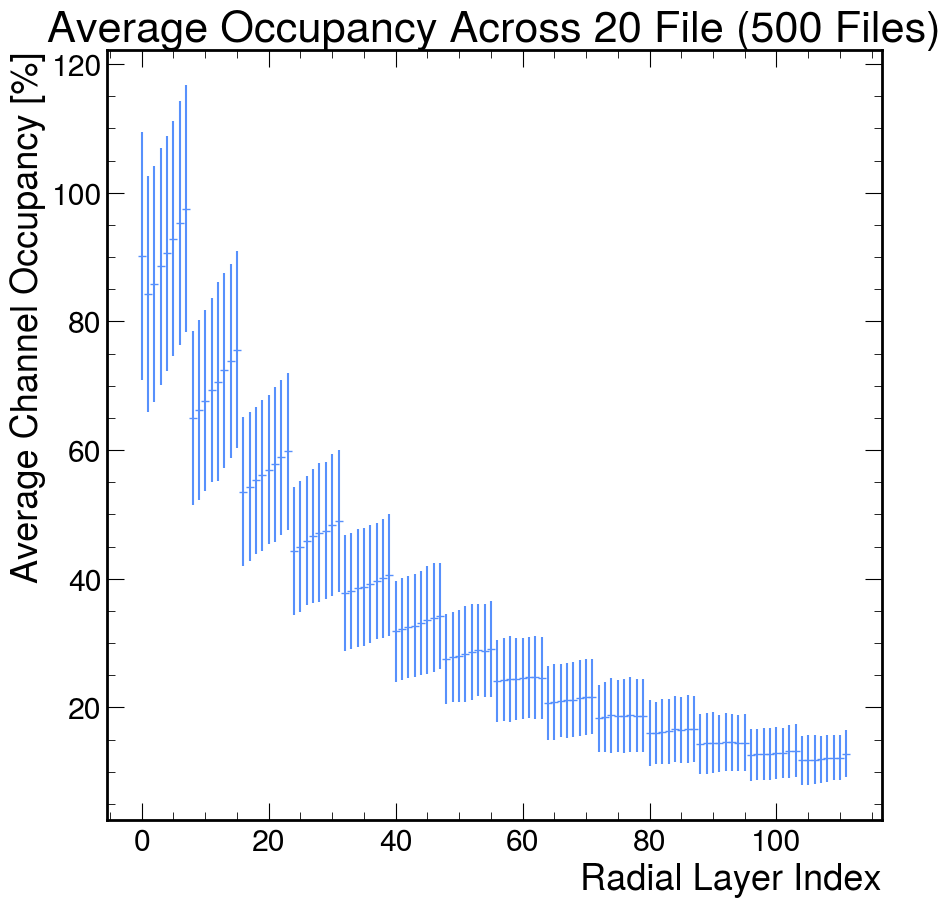
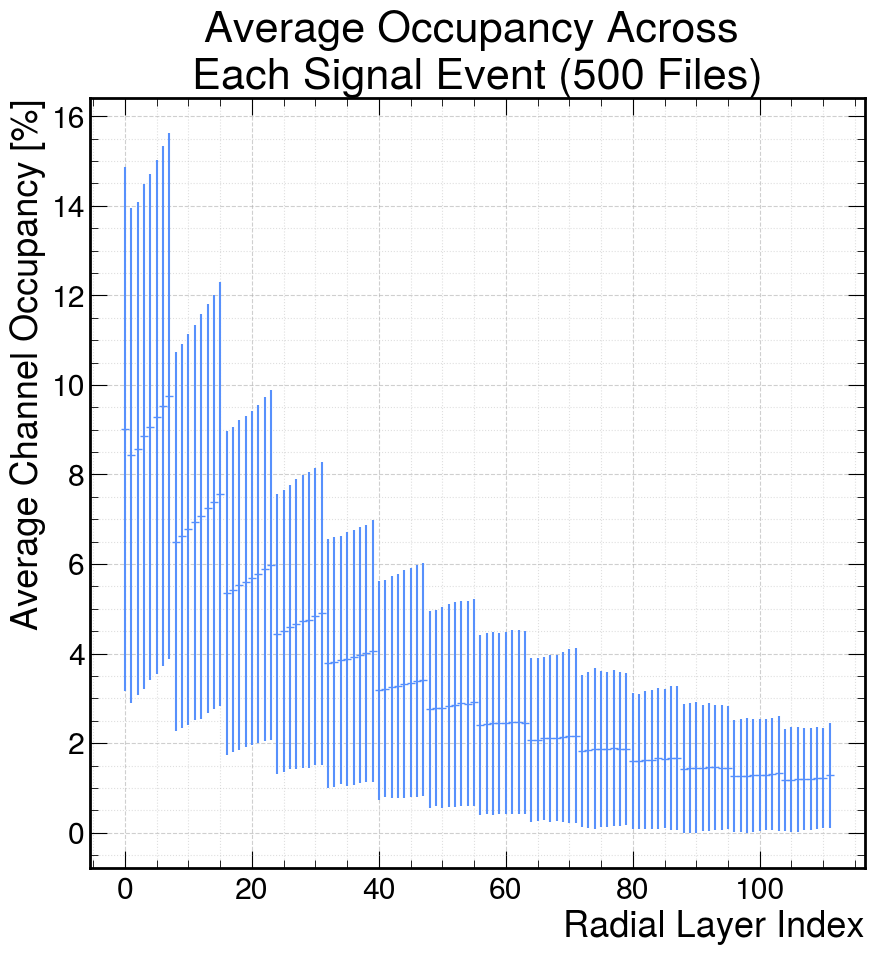
final version which produced plots for final presentation

Changed region(s): [[0.0, 0.0, 1.0, 0.9879]]

diff --git a/detector_beam_backgrounds/tracking/trBkgPlt.py b/detector_beam_backgrounds/tracking/trBkgPlt.py
@@ -17,7 +17,7 @@ backgroundDataPath = "fccproject-tracking/detector_beam_backgrounds/tracking/dat
 combinedDataPath = "fccproject-tracking/detector_beam_backgrounds/tracking/data/combined/"
 imageOutputPath = "fccproject-tracking/detector_beam_backgrounds/tracking/images/"
 signalDataPath = "fccproject-tracking/detector_beam_backgrounds/tracking/data/occupancy_tinker/signal_background_particles_"+str(numFiles)+".npy"
-type="bkg"
+type="signal"
 
 #set numpy display to default
 np.set_printoptions(threshold=10)
@@ -190,14 +190,14 @@ def momPerMC(dic, args = "", byPDG = False):
         #seperate hits based on if they occur once or more than once with the same mcParticle
         for i in range(0, len(count_hits)):
             if count_hits[i] == 1:
-                if byPDG:
+                if byPDG and args == "onlyOH":
                     if pdg[i] in hist:
                         hist[pdg[i]].append(p[i])
                     else:
                         hist[pdg[i]] = [p[i]]
                 hist["onlyOH"].append(p[i])
             else:
-                if byPDG:
+                if byPDG and args == "only+H":
                     if pdg[i] in hist:
                         hist[pdg[i]].append(p[i])
                     else:
@@ -442,12 +442,9 @@ def occupancy(dic, args = ""):
         "" -- all values \n
         "n_cells" -- number of cells fired by an mcParticle\n
         "percentage_fired" -- percentage of cells fired by an mcParticle\n
-        "avg_occupancy_file" -- average occupancy per file\n
-        "avg_occupancy_event" -- average occupancy per event\n
-        "avg_occupancy_event_file" -- average occupancy per event per file, 
-            same length as total layers\n
-        "avg_occupancy_layer_file" -- average occupancy per file, but all events together,
-            same length as total layers\n
+        "occupancy_per_batch_sum_events" -- average occupancy (%) per batch, summing occupancies an event\n
+        "occupancy_per_batch_sum_events_non_normalized" -- average occupancy (not %) per batch, summing occupancies an event\n
+        "occupancy_per_batch_sum_batches" -- average occupancy (%) per batch, summing occupancies a batch\n
         "cells_per_layer" -- cells per layer\n
     """
     # Create the histogram
@@ -509,7 +506,7 @@ def occupancy(dic, args = ""):
 
 # hist = momPerMC(dic, "only+H")
 # hist_plot(hist["only+H"], imageOutputPath + "momentumMC" + str(numFiles) + "only+Hit.png", "Momentum of MC particles with more than one hit (" + str(numFiles) + " Files)", xLabel="Momentum (GeV)", yLabel="Count MC particles",  xMin=0, xMax=0.3)
-# hist_plot(hist["only+H"], imageOutputPath + "momentumMC" + str(numFiles) + "only+HitLoggedx.png", "Momentum of MC particles with more than one hit (" + str(numFiles) + " Files)", xLabel="Momentum (GeV)", yLabel="Count MC particles", logX=True)
+# hist_plot(hist["only+H"], imageOutputPath + "momentumMC" + str(numFiles) + "only+HitLoggedx.png", "Momentum of BKG MC particles \nwith more than one hit (" + str(numFiles) + " Files)", xLabel="Momentum (GeV)", yLabel="Count MC particles", logX=True)
 # hist_plot(hist["only+H"], imageOutputPath + "momentumMC" + str(numFiles) + "only+HitLogged.png", "Momentum of MC particles with more than one hit (" + str(numFiles) + " Files)", xLabel="Momentum (GeV)", yLabel="Count MC particles", logY=True, logX=True)
 
 # hist = momPerMC(dic, "onlyParPhoton")
@@ -526,8 +523,8 @@ def occupancy(dic, args = ""):
 
 
 ####multi:
-# hist = PDGPerMC(dic, "")
-# bar_plot(hist.keys(), hist.values(), imageOutputPath + "pdgMC" + str(numFiles) + ".png", "PDG of MC particles (" + str(numFiles) + " Files)", xLabel="PDG", yLabel="Count MC particles", width=1.3, rotation=90, includeLegend=False)
+hist = PDGPerMC(dic, "")
+bar_plot(hist.keys(), hist.values(), imageOutputPath + "pdgMC" + str(numFiles) + ".png", "PDG of BKG MC particles \n(" + str(numFiles) + " Files)", xLabel="PDG", yLabel="Count MC particles", width=1.3, rotation=90, includeLegend=False)
 
 # hist = PDGPerMC(dic, "electron")
 # bar_plot(["electron"], hist["all"], imageOutputPath + "pdgElectronPhotonMC" + str(numFiles) + ".png", "PDG of MC particles (" + str(numFiles) + " Files)", xLabel="PDG", yLabel="Count MC particles", rotation=80, save=False, label="All Electrons")
@@ -559,8 +556,8 @@ def occupancy(dic, args = ""):
 
 # hist = momPerMC(dic, "only+H", byPDG=True)
 # print(f"hist: {hist['only+H']}")
-# multi_hist_plot(hist, imageOutputPath + "momentumMC" + str(numFiles) + "only+Hit.png", "Momentum of MC particles with more than one hit (" + str(numFiles) + " Files)", xLabel="Momentum (GeV)", yLabel="Count MC particles",  xMin=0, xMax=0.3, barType="step")
-# multi_hist_plot(hist, imageOutputPath + "momentumMC" + str(numFiles) + "only+HitSetpPDGLoggedx.png", "Momentum of MC particles with more than one hit (" + str(numFiles) + " Files)", xLabel="Momentum (GeV)", yLabel="Count MC particles", logX=True, barType="step", contrast=True)
+# multi_hist_plot(hist, imageOutputPath + "momentumMC" + str(numFiles) + "only+Hit.png", "Momentum of BKG MC particles \n with more than one hit (" + str(numFiles) + " Files)", xLabel="Momentum (GeV)", yLabel="Count MC particles",  xMin=0, xMax=0.3, barType="step")
+# multi_hist_plot(hist, imageOutputPath + "momentum" + str(type) + "MC" + str(numFiles) + "only+HitSetpPDGLoggedx.png", "Momentum of " + str(type) + " MC particles \nwith more than one hit (" + str(numFiles) + " Files)", xLabel="Momentum (GeV)", yLabel="Count MC particles", logX=True, barType="step")
 # multi_hist_plot(hist, imageOutputPath + "momentumMC" + str(numFiles) + "only+HitLogged.png", "Momentum of MC particles with more than one hit (" + str(numFiles) + " Files)", xLabel="Momentum (GeV)", yLabel="Count MC particles", logY=True, logX=True, barType="step")
 
 # hist = momPerMC(dic, "multiHitsExcludeOne")
@@ -571,12 +568,12 @@ def occupancy(dic, args = ""):
 
 
 ###overlay bkg and signal hits
-# histSignal = hitsPerMC(dic, "all")
-# histBkg = hitsPerMC(dicbkg, "all")
-# histBkg["All Particles BKG"] = histBkg.pop("all")
+# histSignal = hitsPerMC(dic, "electron")
+# histBkg = hitsPerMC(dicbkg, "electron")
+# histBkg["Electron Particles Signal"] = histSignal["Only Electrons"]
+# histBkg["Electron Particles BKG"] = histBkg.pop("Only Electrons")
 # histSignal["Electron Particles Signal"] = histSignal.pop("Only Electrons")
 # bar_step_multi_hist_plot(histSignal["all"], histBkg, imageOutputPath + "hitsSignalBkgMC" + str(numFiles) + ".png", "Hits of MC particles (" + str(numFiles) + " Files)", xLabel="Number of hits", yLabel="Number of MC particles", label="All Particles Signal", autoBin=False, binLow=0.1, binHigh=9000, binSteps=5, binType="lin", logY=True)
-# histBkg["All Particles Signal"] = histSignal["all"]
 # histBkg.pop("all")
 # multi_hist_plot(histBkg, imageOutputPath + "hitsElectronDensitySignalBkgZoomedMC" + str(numFiles) + ".png", "Hits of MC particles (" + str(numFiles) + " Files)", xLabel="Number of hits", yLabel="Density of MC particles", label="All Particles Signal", autoBin=False, binLow=0.1, binHigh=900, binSteps=5, binType="lin", barType="step",logY=True, density=True)
 # multi_hist_plot(histBkg, imageOutputPath + "hitsDensitySignalBkgZoomedMC" + str(numFiles) + ".png", "Hits of MC particles (" + str(numFiles) + " Files)", xLabel="Number of hits", yLabel="Density of MC particles", label="All Particles Signal", autoBin=False, binLow=0.1, binHigh=900, binSteps=5, binType="lin", barType="step", logY=True, density=True)
@@ -592,7 +589,6 @@ def occupancy(dic, args = ""):
 
 #####occupancy
 # hist = occupancy(dic, "avg_occupancy_layer_file")
-hist = occupancy(dic, "occupancy_per_batch_sum_batches")
 # hist = occupancy(dic, "n_cells")
 #total number of layers: 112
 #total number of cells 56448
@@ -605,22 +601,18 @@ hist = occupancy(dic, "occupancy_per_batch_sum_batches")
 # hist_plot(hist["avg_occupancy_event"], imageOutputPath + "occupancyPerEventMC" + str(numFiles) + ".png", "Average Occupancy Per Event (" + str(numFiles) + " Files)", xLabel="Radial Layer Index", yLabel="Average Channel Occupancy [%]", xMin=0, xMax=1.3, binHigh=112, binSteps=1, binType="lin")
 
 # print(hist)
-layers = [i for i in range(0, hist["total_number_of_layers"])]
-# xy_plot(layers, hist["avg_occupancy_event_file"], imageOutputPath + "occupancyPerEventPerLayerMC" + str(numFiles) + ".png", "Average Occupancy Per Event Per File (" + str(numFiles) + " Files)", xLabel="Radial Layer Index", yLabel="Average Channel Occupancy [%]", includeLegend=False, label="", scatter=False)
-# xy_plot(layers, hist["avg_occupancy_layer_file"], imageOutputPath + "occupancyPerLayerMC" + str(numFiles) + ".png", "Average Occupancy Per File (" + str(numFiles) + " Files)", xLabel="Radial Layer Index", yLabel="Average Channel Occupancy [%]", includeLegend=False, label="", scatter=True)
-
-# xy_plot(layers, hist["occupancy_one_file_non_normalized"], imageOutputPath + "occupancyOneFileMC" + str(numFiles) + ".png", "Occupancy One File (" + str(numFiles) + " Files)", xLabel="Radial Layer Index", yLabel="Channel Occupancy", includeLegend=False, label="", scatter=True)
-# xy_plot(layers, hist["occupancy_one_file"], imageOutputPath + "occupancyOneFilePercMC" + str(numFiles) + ".png", "Occupancy One File (" + str(numFiles) + " Files)", xLabel="Radial Layer Index", yLabel="Channel Occupancy [%]", includeLegend=False, label="", scatter=True)
+# hist = occupancy(dic, "occupancy_per_batch_sum_batches")
+# layers = [i for i in range(0, hist["total_number_of_layers"])]
 
 # print(hist["occupancy_per_batch_file_non_normalized"])
 # xy_plot(layers, hist["occupancy_per_batch_file_non_normalized"], imageOutputPath + "occupancy20FileBatchNNMC" + str(numFiles) + ".png", 
 #         "Average Occupancy Across 20 File Non Normalized (" + str(numFiles) + " Files)",
 #         xLabel="Radial Layer Index", yLabel="Average Channel Occupancy", 
 #         includeLegend=False, label="", scatter=True, errorBars=True, yerr = hist["occupancy_per_batch_file_non_normalized_error"])
-xy_plot(layers, hist["occupancy_per_batch_sum_batches"], imageOutputPath + "occupancy20FileBatchMC" + str(numFiles) + ".png", 
-        "Average Occupancy Across 20 File (" + str(numFiles) + " Files)",
-        xLabel="Radial Layer Index", yLabel="Average Channel Occupancy [%]", 
-        includeLegend=False, label="", scatter=True, errorBars=True, yerr = hist["occupancy_per_batch_sum_batches_error"])
+# xy_plot(layers, hist["occupancy_per_batch_sum_batches"], imageOutputPath + "occupancy20FileBatchMC" + str(numFiles) + ".png", 
+#         "Average Occupancy Across \nEach 20 BKG File Batch (" + str(numFiles) + " Files)",
+#         xLabel="Radial Layer Index", yLabel="Average Channel Occupancy [%]", 
+#         includeLegend=False, label="", scatter=True, errorBars=True, yerr = hist["occupancy_per_batch_sum_batches_error"])
 
 
 # x = [int(i) for i in list(hist["n_cells_per_layer"].keys())]
@@ -630,7 +622,7 @@ xy_plot(layers, hist["occupancy_per_batch_sum_batches"], imageOutputPath + "occu
 # hist = occupancy(dic, "cells_per_layer")
 # print(hist['total_number_of_layers'])
 # print(len(hist['n_cells_per_layer']))
-# plot_wire_chamber(hist["total_number_of_layers"], hist["n_cells_per_layer"], imageOutputPath + "wireChamber" + ".png", title="Wire Chamber Diagram (" + str(numFiles) + " Files)")
+# plot_wire_chamber(hist["total_number_of_layers"], hist["n_cells_per_layer"], imageOutputPath + "wireChamberFirstQuad" + ".png", title="", firstQuadrant=True)
 
 
 

diff --git a/detector_beam_backgrounds/tracking/utilities/functions.py b/detector_beam_backgrounds/tracking/utilities/functions.py
@@ -110,7 +110,7 @@ def hist_plot(h, outname, title, xMin=-1, xMax=-1, yMin=-1, yMax=-1,
               binLow = 0.00001, binHigh=2, binSteps=0.3, binType="exp", 
               figure = plt.figure(), axe = "", save=True, barType="bar",
               includeLegend = True, lineStyle = "", lineColor = "", alpha=1,
-              density=False):
+              density=False, legendOutside=False, includeGrid=True, ncols=1):
     #recreate plot_hist but using hist instead of hep
     if axe == "":
         axe = figure.subplots()
@@ -137,10 +137,14 @@ def hist_plot(h, outname, title, xMin=-1, xMax=-1, yMin=-1, yMax=-1,
         axe.set_title(title)
         axe.set_xlabel(xLabel)
         axe.set_ylabel(yLabel)
-        axe.legend(fontsize='x-small')
+        if includeGrid:
+            axe.grid(True, linestyle='--', alpha=0.6)  # Dashed grid with transparency
+            axe.grid(True, which='minor', linestyle=':', alpha=0.4)  # Minor grid (dotted)
         
         if includeLegend:
-            axe.legend(loc='upper left', bbox_to_anchor=(1.05, 1))
+            axe.legend(fontsize='x-small')
+            if legendOutside:
+                axe.legend(loc='upper left', ncols=ncols, bbox_to_anchor=(1.05, 1))
         if logY:
             axe.set_yscale("log")
         if logX:
@@ -151,7 +155,7 @@ def hist_plot(h, outname, title, xMin=-1, xMax=-1, yMin=-1, yMax=-1,
         if yMin != -1 and yMax != -1:
             axe.set_ylim([yMin, yMax])
         
-        figure.savefig(outname, bbox_inches="tight")
+        figure.savefig(outname, dpi=300, bbox_inches="tight")
         #fig.savefig(outname.replace(".png", ".pdf"), bbox_inches="tight")
     
 def multi_hist_plot(h, outname, title, xMin=-1, xMax=-1, yMin=-1, yMax=-1,
@@ -169,11 +173,19 @@ def multi_hist_plot(h, outname, title, xMin=-1, xMax=-1, yMin=-1, yMax=-1,
     for key in keys:
         if len(h[key]) == 0:
             h.pop(key)
+            
+    ncol=1
+    legendOutside=False
+    if len(h.keys()) > 10:
+        ncol=3
+    elif len(h.keys()) > 5:
+        ncol=2
+    if len(h.keys()) > 3:
+        legendOutside=True
     
     i = 0
     for key in h.keys():
         #if hStakced is a string
-        # print(key)
         # print(f"last key: {type(list(h.keys())[-1])}")
         # if type(key) == str:
         if key == list(h.keys())[-1]:
@@ -183,7 +195,7 @@ def multi_hist_plot(h, outname, title, xMin=-1, xMax=-1, yMin=-1, yMax=-1,
                         binLow=binLow, binHigh=binHigh,binSteps=binSteps,
                         binType=binType, barType=barType,
                         save=True, label=key, 
-                        figure=figure, axe=axe, density=density)
+                        figure=figure, axe=axe, density=density, ncols=ncol, legendOutside=legendOutside)
         else:
             #alternate linestyles:
             lineStyle = ""
@@ -199,14 +211,14 @@ def multi_hist_plot(h, outname, title, xMin=-1, xMax=-1, yMin=-1, yMax=-1,
                             save=False, label=key, 
                             figure=figure, axe=axe, 
                             lineStyle=lineStyle[i % len(lineStyle)], lineColor=colors[i % len(colors)],
-                            alpha=alpha, density=density)
+                            alpha=alpha, density=density, legendOutside=legendOutside, ncols=ncol)
             else:
                 hist_plot(h[key], outname, title, xLabel=xLabel, yLabel=yLabel, 
                                 logY=logY, logX=logX, autoBin=autoBin, 
                                 binLow=binLow, binHigh=binHigh,binSteps=binSteps,
                                 binType=binType, barType=barType,
                                 save=False, label=key, 
-                                figure=figure, axe=axe, density=density)
+                                figure=figure, axe=axe, density=density, legendOutside=legendOutside, ncols=ncol)
         i += 1
     
 def bar_step_multi_hist_plot(h1, hr, outname, title, xMin=-1, xMax=-1, yMin=-1, yMax=-1, 
@@ -229,7 +241,7 @@ def bar_plot(hkeys, hvalues, outname, title, xLabel, yLabel,
              width=0.8, logY=False, save=True, rotation=0, 
              label="*MC Particle", statusUpdate=False, additionalText="", 
              includeLegend = True,
-             figure = plt.figure(), axe = ""):
+             figure = plt.figure(), axe = "", fontSize=20):
     if axe == "":
         axe = figure.subplots()
     
@@ -241,7 +253,7 @@ def bar_plot(hkeys, hvalues, outname, title, xLabel, yLabel,
     if rotation > 60:
         tickrange = [x*1.5 for x in tickrange]
         
-    axe.bar(tickrange, hvalues, width=width, label=label)
+    axe.bar(tickrange, sorted(hvalues), width=width, label=label)
     
     if statusUpdate:
         print("Finished plotting, updating plot parameters...")
@@ -250,7 +262,7 @@ def bar_plot(hkeys, hvalues, outname, title, xLabel, yLabel,
         #fix when h.keys() is long and overlaps with neighboring labels:
         #plt.xticks(rotation=rotation)
         axe.set_xticks(tickrange)
-        axe.set_xticklabels(hkeys, rotation = rotation, fontsize=12)
+        axe.set_xticklabels(hkeys, rotation = rotation, fontsize=fontSize)
         
         axe.set_title(title)
         axe.set_xlabel(xLabel)
@@ -309,7 +321,7 @@ def multi_bar_plot(hStacked, h, outname, title, xLabel, yLabel,
 def xy_plot(x, y, outname, title, xLabel, yLabel, logY=False, logX=False, 
             label="*MC Particle", statusUpdate=False, additionalText="", 
             figure = plt.figure(), axe = "", includeLegend = True, scatter=True, 
-            errorBars=False, yerr=[]):
+            errorBars=False, yerr=[], includeGrid=True):
     if axe == "":
         axe = figure.subplots()
     if statusUpdate:
@@ -329,6 +341,11 @@ def xy_plot(x, y, outname, title, xLabel, yLabel, logY=False, logX=False,
     axe.set_title(title)
     axe.set_xlabel(xLabel)
     axe.set_ylabel(yLabel)
+    
+    if includeGrid:
+            axe.grid(True, linestyle='--', alpha=0.6)  # Dashed grid with transparency
+            axe.grid(True, which='minor', linestyle=':', alpha=0.4)  # Minor grid (dotted)
+            
     if logY:
         axe.set_yscale("log")
     if logX:

diff --git a/detector_beam_backgrounds/tracking/utilities/pltWireCh.py b/detector_beam_backgrounds/tracking/utilities/pltWireCh.py
@@ -12,7 +12,7 @@ num_cells_per_layer = np.array([8, 10, 12, 14, 16, 18, 20, 22, 24, 26, 28, 30, 3
 imageOutputPath = "fccproject-tracking/detector_beam_backgrounds/tracking/images/cylinder_layers.png"
 
 
-def plot_wire_chamber(num_layers, num_cells_per_layer, imageOutputPath=imageOutputPath, layer_radii=layer_radii, title="Cylinder Layers with Scattered Cells"):
+def plot_wire_chamber(num_layers, num_cells_per_layer, imageOutputPath=imageOutputPath, layer_radii=layer_radii, title="Cylinder Layers with Scattered Cells", firstQuadrant=False):
     # print(num_cells_per_layer)
     n_cells_per_layer = num_cells_per_layer.values()
     layer_radii *= 20  # Double radii for better visualization
@@ -29,16 +29,29 @@ def plot_wire_chamber(num_layers, num_cells_per_layer, imageOutputPath=imageOutp
 
     # Generate Cells in Each Layer
     for radius, num_cells in zip(layer_radii, n_cells_per_layer):
-        theta = np.linspace(0, 2 * np.pi, num_cells, endpoint=False)  # Evenly distribute cells
+        if firstQuadrant:
+            theta = np.linspace(0, np.pi / 2, num_cells, endpoint=False)
+        else:
+            theta = np.linspace(0, 2 * np.pi, num_cells, endpoint=False)  # Evenly distribute cells
         r = np.full_like(theta, radius)  # Set radius for all points in this layer
         
-        ax.scatter(theta, r, s=2, marker='.', label=f'Layer {radius}', alpha=0.7)  # Scatter plot for cells
+        ax.scatter(theta, r, s=0.1, marker='.', label=f'Layer {radius}', alpha=1)  # Scatter plot for cells
+
 
     #draw a line circle at 349
-    ax.plot(np.linspace(0, 2 * np.pi, 100), np.full(100, 349), color='black', linestyle='--', linewidth=1, label='Vertex')    
+    if firstQuadrant:
+        ax.plot(np.linspace(0, np.pi / 2, 100), np.full(100, 349), color='black', linestyle='--', linewidth=1, label='Vertex')
+    else:
+        ax.plot(np.linspace(0, 2 * np.pi, 100), np.full(100, 349), color='black', linestyle='--', linewidth=1, label='Vertex')    
     
+    if firstQuadrant:
+        ax.set_thetamin(0)    # 0 degrees
+        ax.set_thetamax(90)   # 90 degrees
+
+
     # Styling
     ax.set_title(title)
+    ax.set_xticklabels([])
     ax.set_yticklabels([])  # Hide radial labels for cleaner look
     # ax.legend(loc="upper right", bbox_to_anchor=(1.2, 1.1))  # Move legend to the side
 

diff --git a/detector_beam_backgrounds/tracking/trBkgDatUpdateOcc.py b/detector_beam_backgrounds/tracking/trBkgDatUpdateOcc.py
@@ -23,7 +23,7 @@ combinedDataPath = "/ceph/submit/data/group/fcc/ee/detector/tracking/Zcard_CLD_b
 bkgFilePath = "out_sim_edm4hep_background_"
 combinedFilePath = "/out_sim_edm4hep"
 signalFilePath = "/out_sim_edm4hep_base"
-type = "bkg"
+type = "signal"
 if type == "combined":
     print("WARNING: combined files are not yet supported")
 print("type: ", type)
@@ -158,6 +158,7 @@ for i in range(0, len(list_overlay)):
         occupancies_an_event = []
         
         if type == "signal": #want to reset every 1 signal event
+            print(f"resetting occupancy for batch, new batch: {numBatches}")
             dict_cellID_nHits = {} #reset cells for every 1 signal event
             occupancies_a_batch = []
             # numBatches = 0 #total batches should be numFiles * 10
@@ -218,6 +219,7 @@ for i in range(0, len(list_overlay)):
         
         ##signal files we want to reset every event
         if type == "signal":
+            print(f"setting occupancy for batch: {numBatches}")
             batch_occupancy = []
             for unique_layer_index in range(0, total_number_of_layers):
                 batch_occupancy.append(calculateOccupancy(occupancies_a_batch, unique_layer_index, n_cell_per_layer))

diff --git a/detector_beam_backgrounds/tracking/trBkgDat.py b/detector_beam_backgrounds/tracking/trBkgDat.py
@@ -23,7 +23,7 @@ combinedDataPath = "/ceph/submit/data/group/fcc/ee/detector/tracking/Zcard_CLD_b
 bkgFilePath = "out_sim_edm4hep_background_"
 combinedFilePath = "/out_sim_edm4hep"
 signalFilePath = "/out_sim_edm4hep_base"
-type = "bkg"
+type = "signal"
 print("type: ", type)
 input("Press Enter to continue...")
 
